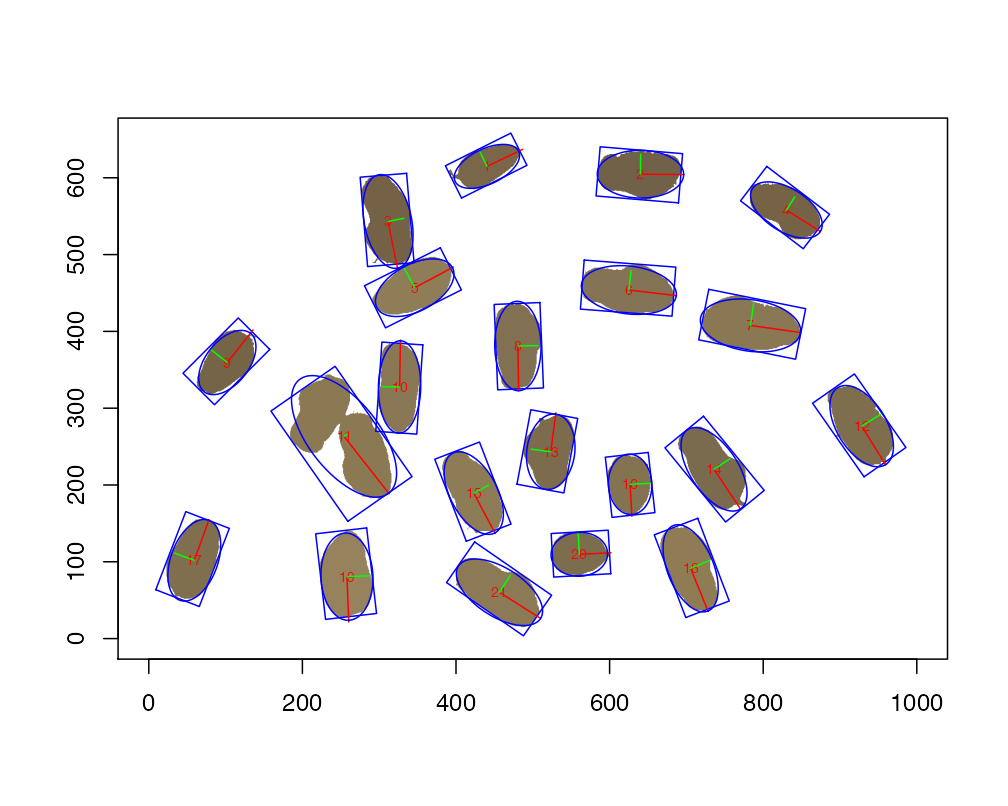
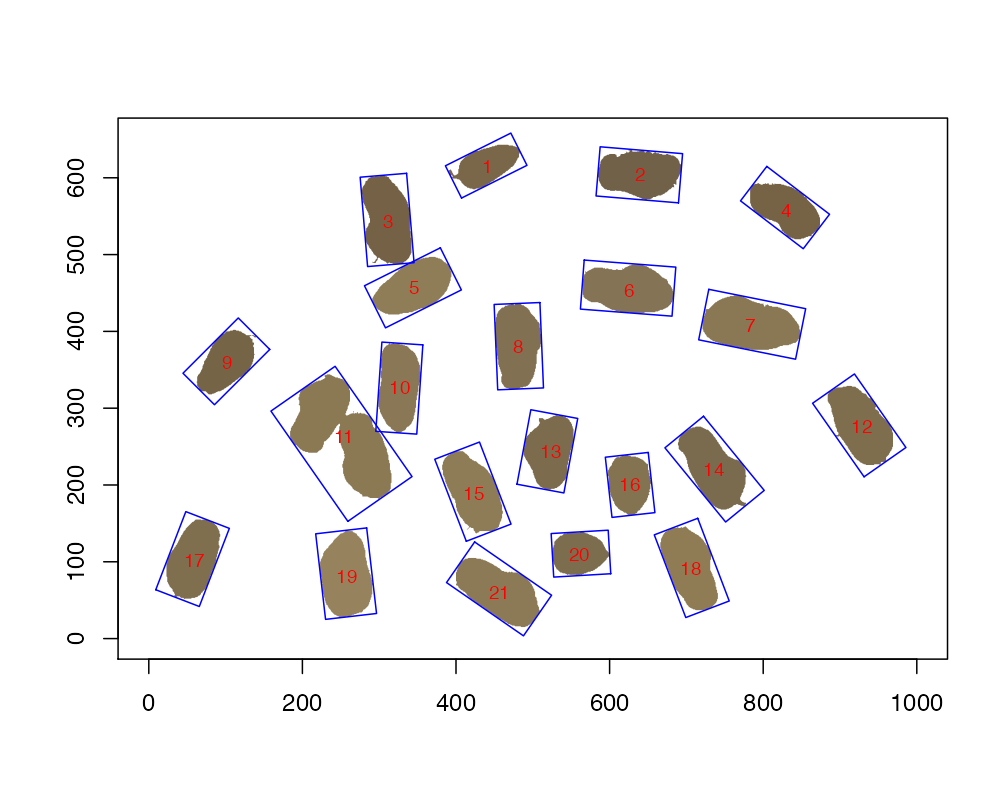
Changed installation instructions

diff --git a/docs/articles/Rigatoni.html b/docs/articles/Rigatoni.html
@@ -115,7 +115,13 @@ It is a list with four components:</p>
 </ul>
 <p>The features of the <code>pods</code> object can be plotted with the plot function:</p>
 <div class="sourceCode" id="cb7"><pre class="downlit sourceCode r">
-<code class="sourceCode R"><span class="fu"><a href="https://rdrr.io/r/graphics/plot.html">plot</a></span><span class="op">(</span><span class="va">pods</span>, plot.bbox <span class="op">=</span> <span class="cn">T</span><span class="op">)</span></code></pre></div>
+<code class="sourceCode R"><span class="fu"><a href="https://rdrr.io/r/graphics/plot.html">plot</a></span><span class="op">(</span><span class="va">pods</span>,
+     plot.bbox<span class="op">=</span><span class="cn">T</span>,
+     plot.radii <span class="op">=</span> <span class="cn">F</span>,
+     plot.ellipse <span class="op">=</span> <span class="cn">F</span>,
+     plot.ws.pois <span class="op">=</span> <span class="cn">F</span>,
+     plot.pois <span class="op">=</span> <span class="cn">F</span>,
+     label.cex <span class="op">=</span> <span class="fl">0.8</span><span class="op">)</span></code></pre></div>
 <p><img src="Rigatoni_files/figure-html/unnamed-chunk-7-1.png" width="672" style="display: block; margin: auto;"></p>
 <p>We can see that object #11 is the merger of two pods that were not separated on the scanner.<br>
 This artecfactual object can be excluded by decreasing <code>maxsize</code>.<br>
@@ -132,7 +138,13 @@ Let’s decrease it to 10000.</p>
 <p><img src="Rigatoni_files/figure-html/unnamed-chunk-9-1.png" width="700" style="display: block; margin: auto;"></p>
 <p>The resulting <code>pods</code> object no longer contains the 2 non separated pods.</p>
 <div class="sourceCode" id="cb9"><pre class="downlit sourceCode r">
-<code class="sourceCode R"><span class="fu"><a href="https://rdrr.io/r/graphics/plot.html">plot</a></span><span class="op">(</span><span class="va">pods</span>, plot.bbox <span class="op">=</span> <span class="cn">T</span><span class="op">)</span></code></pre></div>
+<code class="sourceCode R"><span class="fu"><a href="https://rdrr.io/r/graphics/plot.html">plot</a></span><span class="op">(</span><span class="va">pods</span>,
+     plot.bbox <span class="op">=</span> <span class="cn">T</span>,
+     plot.radii <span class="op">=</span> <span class="cn">F</span>,
+     plot.ellipse <span class="op">=</span> <span class="cn">F</span>,
+     plot.ws.pois <span class="op">=</span> <span class="cn">F</span>,
+     plot.pois <span class="op">=</span> <span class="cn">F</span>,
+     label.cex <span class="op">=</span> <span class="fl">0.8</span><span class="op">)</span></code></pre></div>
 <p><img src="Rigatoni_files/figure-html/unnamed-chunk-10-1.png" width="672" style="display: block; margin: auto;"></p>
 <p>Another, and recommended, option is to use the <code>watershed</code> parameter.</p>
 <div class="sourceCode" id="cb10"><pre class="downlit sourceCode r">
@@ -144,7 +156,13 @@ Let’s decrease it to 10000.</p>
             save.outline <span class="op">=</span> <span class="cn">F</span>, 
             watershed <span class="op">=</span> <span class="cn">T</span><span class="op">)</span>
 
-<span class="fu"><a href="https://rdrr.io/r/graphics/plot.html">plot</a></span><span class="op">(</span><span class="va">pods</span>, plot.bbox <span class="op">=</span> <span class="cn">T</span><span class="op">)</span></code></pre></div>
+<span class="fu"><a href="https://rdrr.io/r/graphics/plot.html">plot</a></span><span class="op">(</span><span class="va">pods</span>,
+     plot.bbox <span class="op">=</span> <span class="cn">T</span>,
+     plot.radii <span class="op">=</span> <span class="cn">F</span>,
+     plot.ellipse <span class="op">=</span> <span class="cn">F</span>,
+     plot.ws.pois <span class="op">=</span> <span class="cn">F</span>,
+     plot.pois <span class="op">=</span> <span class="cn">F</span>,
+     label.cex <span class="op">=</span> <span class="fl">0.8</span><span class="op">)</span></code></pre></div>
 <p><img src="Rigatoni_files/figure-html/unnamed-chunk-11-1.png" width="672" style="display: block; margin: auto;"></p>
 </div>
 <div id="working-on-many-images" class="section level2">

diff --git a/README.md b/README.md
@@ -16,8 +16,16 @@ Install dependencies from CRAN
 
 ``` r
 install.packages("data.table")
-install.packages("EBImage")
+install.packages("polylabelr")
 install.packages("devtools")
+```
+
+Install dependencies from Bioconductor
+
+``` r
+if (!requireNamespace("BiocManager", quietly = TRUE))
+    install.packages("BiocManager")
+BiocManager::install("EBImage")
 ```
 
 Then install Rigatoni from github
